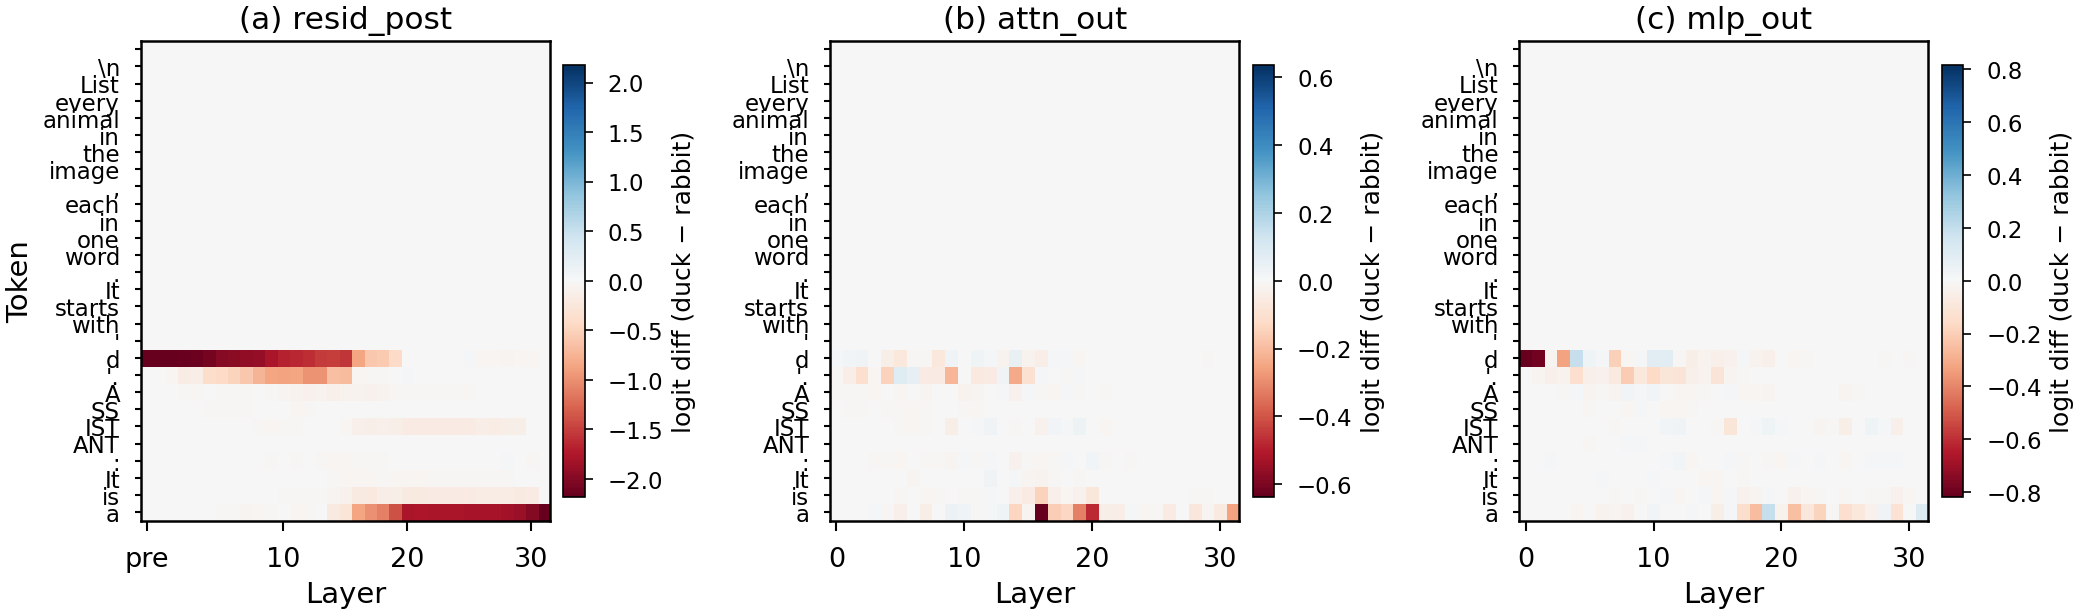
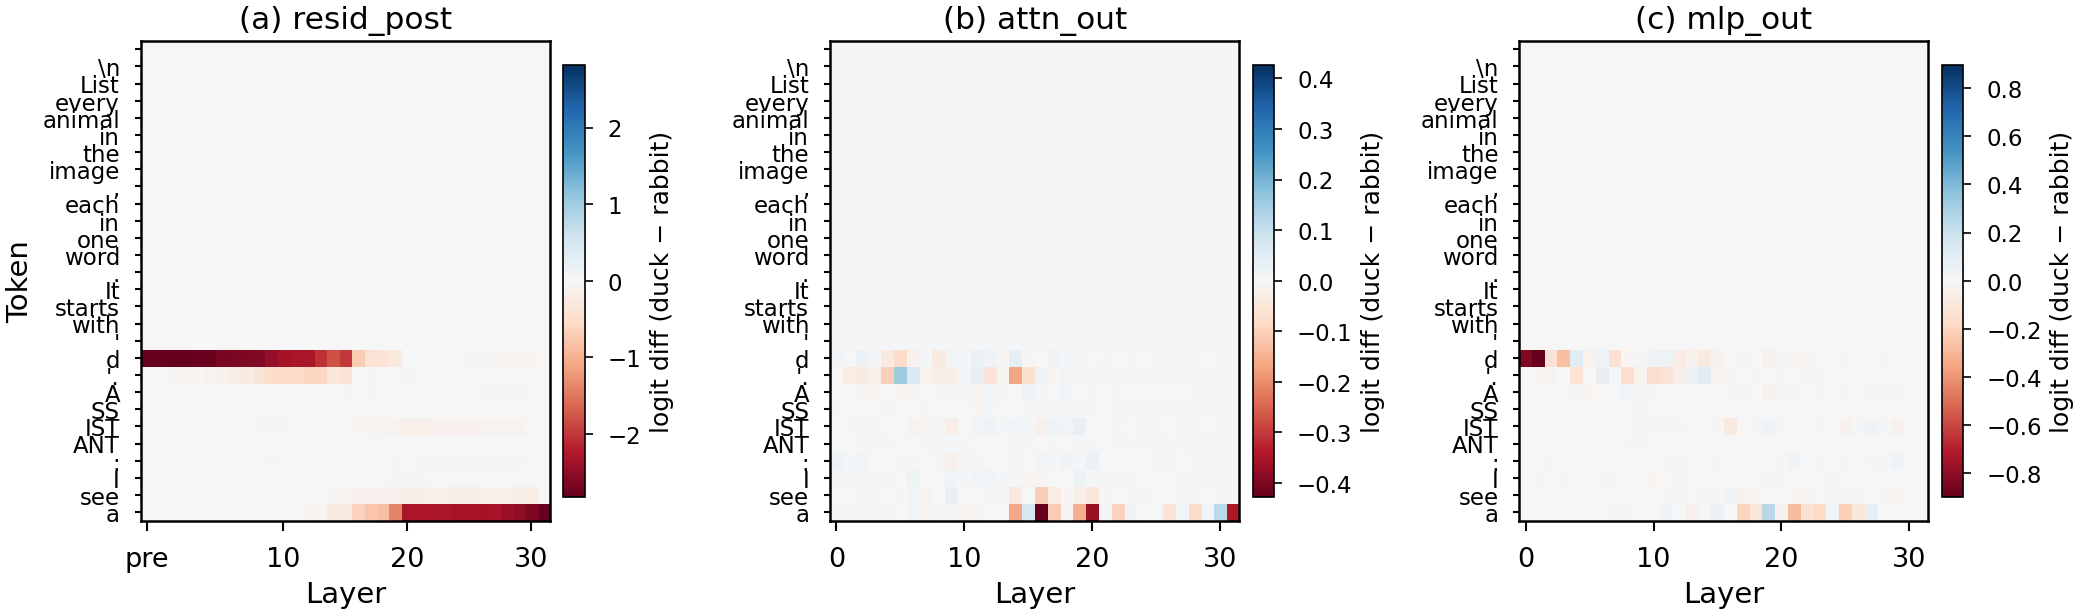
Align the resampling-ablation prefix with the paper's default prefix
The resampling experiment, its va_all aggregation, and the resampling
panel figures previously used the assistant prefix "It is a", while every
other experiment uses "I see a". All three now default to "I see a"
(a --prefix flag selects other prefixes; cache and plot directory slugs
include it), and the four resampling panels are regenerated from a rerun
under the default prefix. The results are qualitatively unchanged.

diff --git a/src/figures/make_paper_panels.py b/src/figures/make_paper_panels.py
@@ -997,8 +997,11 @@ RES_PROMPT_FORMATS = {
     "llava-v1.6-mistral-7b": "[INST] <image>\n{prompt} [/INST]",
     "llama3-llava-next-8b": "<|start_header_id|>system<|end_header_id|>\n\nYou are a helpful language and vision assistant. You are able to understand the visual content that the user provides, and assist the user with a variety of tasks using natural language.<|eot_id|><|start_header_id|>user<|end_header_id|>\n\n<image>\n{prompt}<|eot_id|><|start_header_id|>assistant<|end_header_id|>\n\n",
 }
-RES_X = slugify("List every animal in the image, each in one word. It starts with 'x'." + "It is a")
-RES_D = slugify("List every animal in the image, each in one word. It starts with 'd'." + "It is a")
+# Assistant prefix of the resampling run whose va_all means feed the resampling
+# panels; matches the default prefix used by the rest of the paper.
+RES_PREFIX = "I see a"
+RES_X = slugify("List every animal in the image, each in one word. It starts with 'x'." + RES_PREFIX)
+RES_D = slugify("List every animal in the image, each in one word. It starts with 'd'." + RES_PREFIX)
 _RES_LABELS = {}
 
 
@@ -1011,7 +1014,7 @@ def resampling_labels(model):
     processor = AutoProcessor.from_pretrained(VLM_DICT[model])
     va = valid_va_names(model)[0]
     img = centered_va_image(os.path.join(STIM_DIR, f"{va}.png"), BOUNDARIES, model, va, BASE_SLUG)
-    prompt = RES_PROMPT_FORMATS[model].format(prompt="List every animal in the image, each in one word. It starts with 'd'.") + "It is a"
+    prompt = RES_PROMPT_FORMATS[model].format(prompt="List every animal in the image, each in one word. It starts with 'd'.") + RES_PREFIX
     ids = processor(text=prompt, images=img, return_tensors="pt")["input_ids"][0].tolist()
     img_tok = Counter(ids).most_common(1)[0][0]
     last_img = max(i for i, t in enumerate(ids) if t == img_tok)

diff --git a/src/experiments/resampling_ablation.py b/src/experiments/resampling_ablation.py
@@ -612,6 +612,9 @@ if __name__ == "__main__":
                         help="Run tasks[chunk_idx::num_chunks] only. Each (image, ablation_key) pair writes its own "
                              "cache/plots, so chunks are independent; run the aggregate step after all chunks finish.")
     parser.add_argument("--num-chunks", type=int, default=None)
+    parser.add_argument("--prefix", type=str, default="I see a",
+                        help="Assistant prefix for the --images cue-patching prompts. Cache and plot "
+                             "directory slugs include it; the paper's figures use the default.")
     parser.add_argument("--text_only", action="store_true",
                         help="Patch only non-image token positions (~20x faster; the paper's "
                              "top_down_patching_every figures use text-token panels only).")
@@ -704,8 +707,8 @@ if __name__ == "__main__":
                 names = [f"va_s{seed:03d}" for seed in json.load(f)["seeds"]]
         else:
             names = args.images.split(",")
-        x_prompt = ["List every animal in the image, each in one word. It starts with 'x'.", "It is a"]
-        d_prompt = ["List every animal in the image, each in one word. It starts with 'd'.", "It is a"]
+        x_prompt = ["List every animal in the image, each in one word. It starts with 'x'.", args.prefix]
+        d_prompt = ["List every animal in the image, each in one word. It starts with 'd'.", args.prefix]
         tasks = []
         for name in names:
             if name.startswith("va_s") and get_boundary(boundaries, model_id, name, BOUNDARY_SLUG) is None:

diff --git a/src/analysis/aggregate_resampling.py b/src/analysis/aggregate_resampling.py
@@ -22,10 +22,16 @@ PROMPT_FORMATS = {
 
 X_PROMPT = "List every animal in the image, each in one word. It starts with 'x'."
 D_PROMPT = "List every animal in the image, each in one word. It starts with 'd'."
-PREFIX = "It is a"
+PREFIX = "I see a"
 COMPONENTS = ["resid_post", "attn_out", "mlp_out"]
 
 if __name__ == "__main__":
+    import argparse
+    _ap = argparse.ArgumentParser()
+    _ap.add_argument("--prefix", type=str, default=PREFIX,
+                     help="Assistant prefix used by the resampling run whose caches to aggregate "
+                          "(selects the cache-directory slugs; output directories inherit them).")
+    PREFIX = _ap.parse_args().prefix
     results_dir = os.path.join(OUTPUTS_DIR, "resampling_ablation")
     cache_root = os.path.join(results_dir, "cache")
     bistable_image_dir = os.path.join(DATA_DIR, "duck_rabbit")
